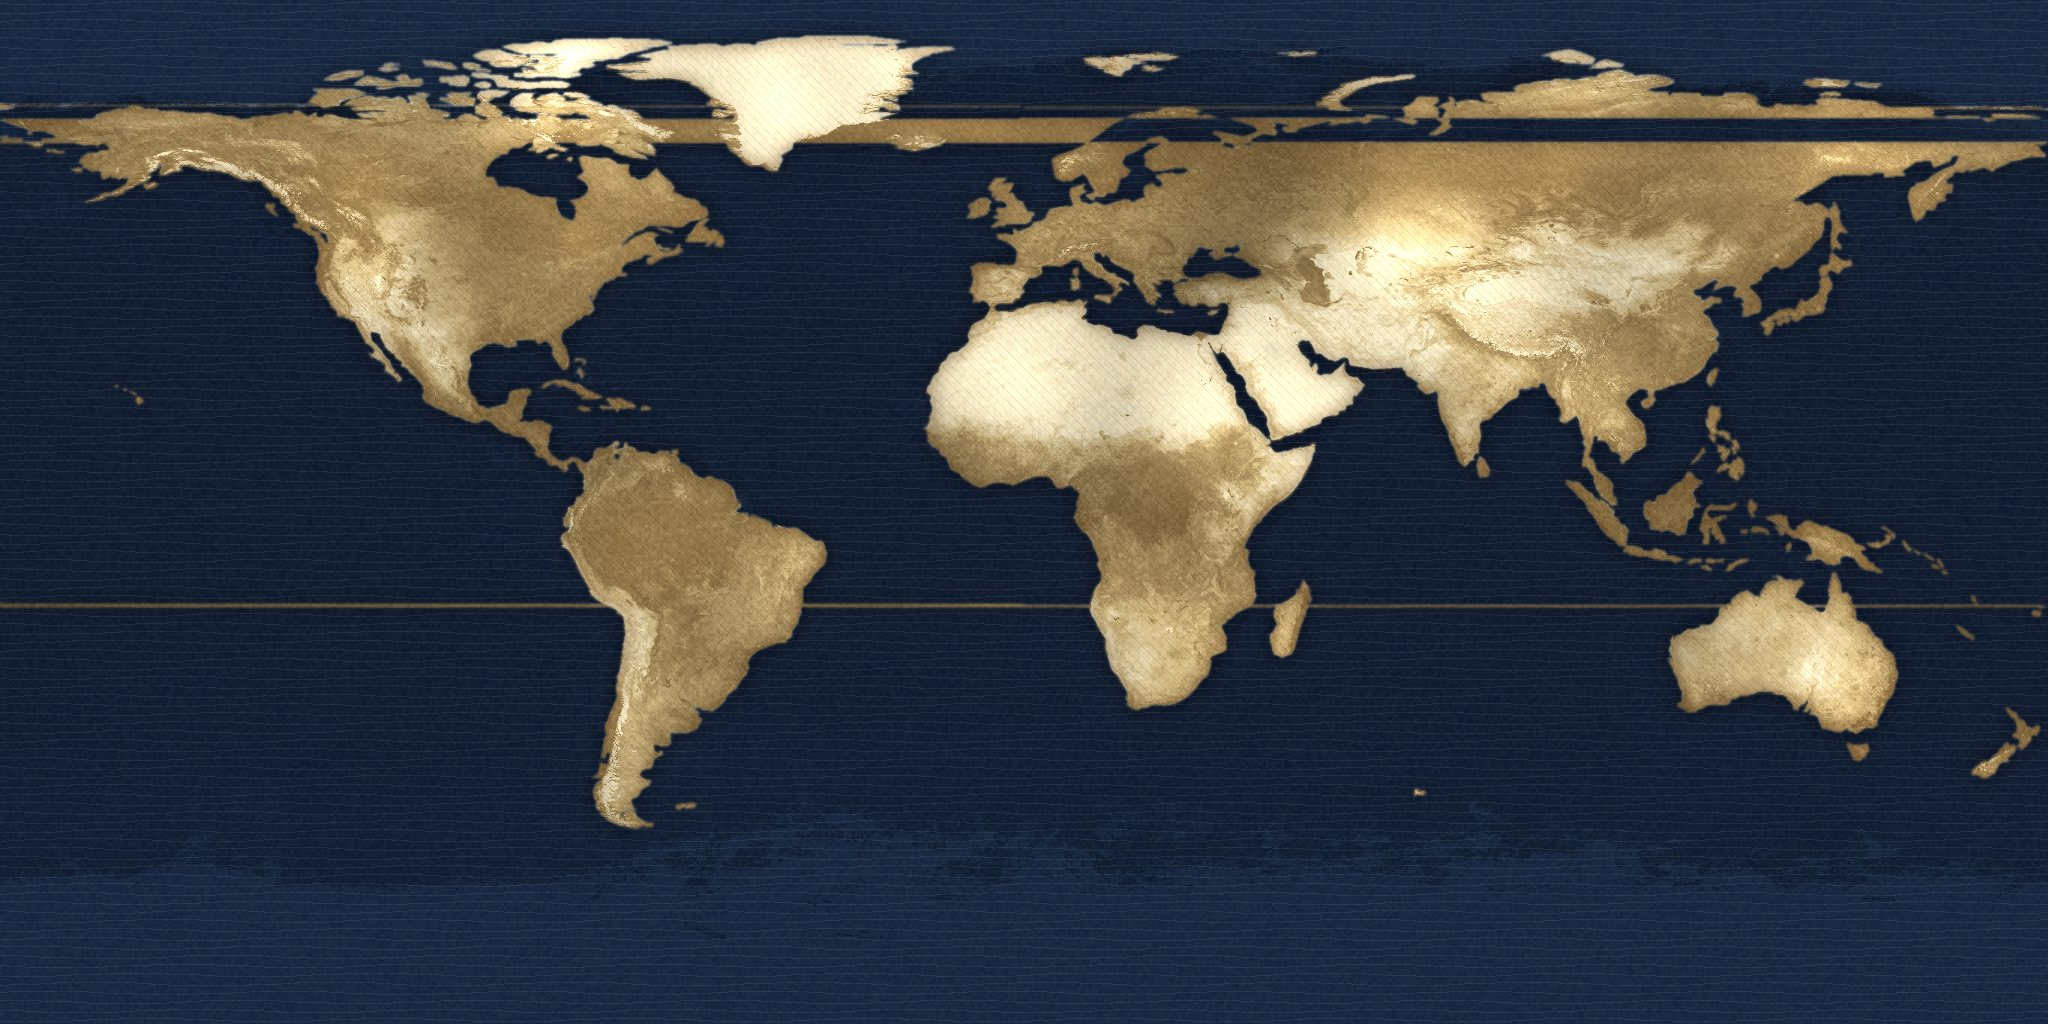
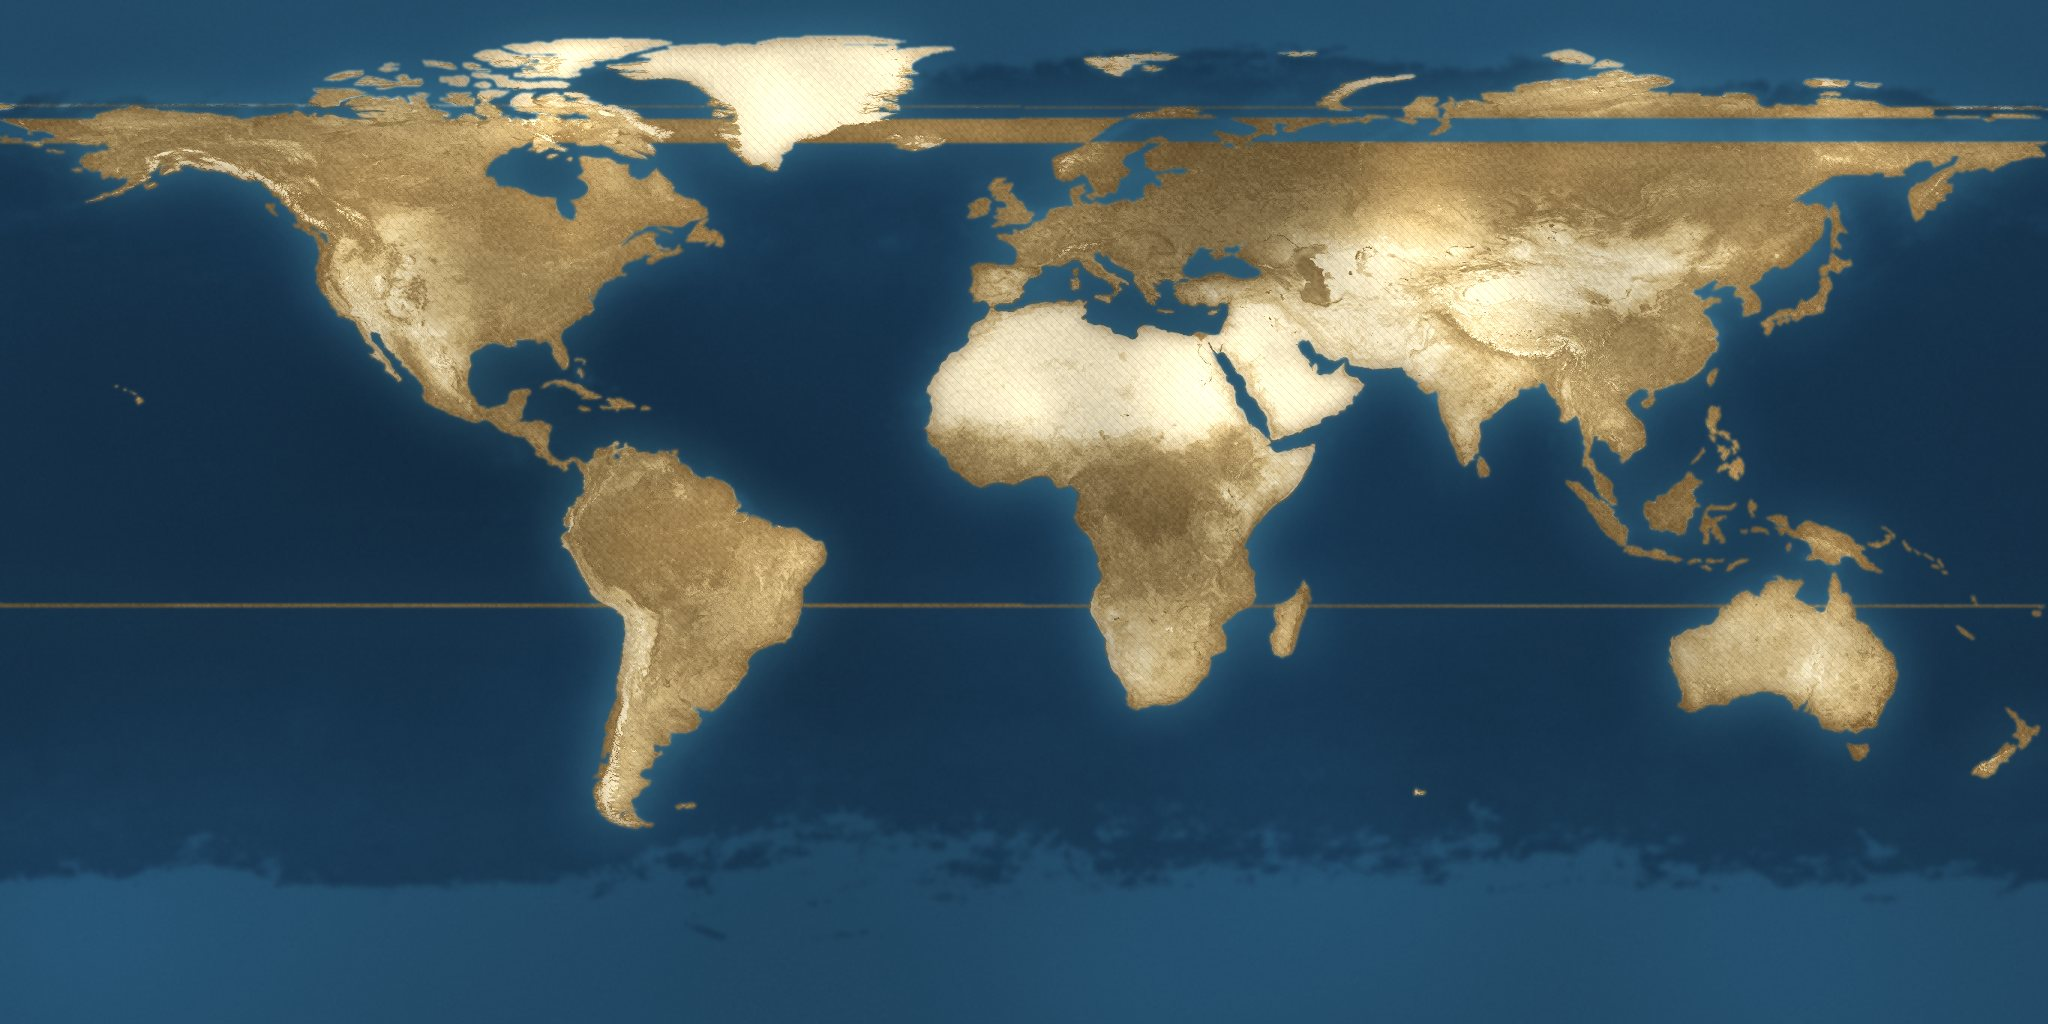
Globe water: painted, not hatched. Smooth varnished blue graded deep to shelf from real bathymetry, shores lighten toward every coast, faint varnish mottle, no grain on the sea

diff --git a/index.html b/index.html
@@ -622,7 +622,7 @@ const G=(()=>{const cv=$('#globe'),ctx=cv.getContext('2d');let W,H,R,R0,dpr=1,ya
     tc.strokeStyle='rgba(196,164,104,.45)';tc.lineWidth=2.4;tc.beginPath();tc.moveTo(0,TH/2);tc.lineTo(TW,TH/2);tc.stroke();TD=tc.getImageData(0,0,TW,TH).data}
   let TD=null;paint(null);
   /* the real relief, baked from the NASA Blue Marble into aged paper, replaces the procedural paper once it arrives */
-  (()=>{const gi=new Image();gi.onload=()=>{paint(gi);if(typeof buildRaster==='function'&&RS){renderRaster();}draw&&draw()};gi.src='/globe-tex.jpg?v=1'})();
+  (()=>{const gi=new Image();gi.onload=()=>{paint(gi);if(typeof buildRaster==='function'&&RS){renderRaster();}draw&&draw()};gi.src='/globe-tex.jpg?v=2'})();
   let ringTex=null,lastRaster=0,RS=0,rc=document.createElement('canvas'),rctx=rc.getContext('2d'),rimg=null,NX=null,NY=null,NZ=null,SH=null,SP=null,MASK=null;
   function buildRaster(){RS=Math.round(Math.min(W,640));rc.width=rc.height=RS;rimg=rctx.createImageData(RS,RS);const n=RS*RS;NX=new Float32Array(n);NY=new Float32Array(n);NZ=new Float32Array(n);SH=new Float32Array(n);SP=new Float32Array(n);MASK=new Uint8Array(n);const c=RS/2,r=RS/2-.5;const L=[-.45,.5,.74],ll=Math.hypot(...L);L[0]/=ll;L[1]/=ll;L[2]/=ll;const Hh=[L[0],L[1],L[2]+1],hl=Math.hypot(...Hh);Hh[0]/=hl;Hh[1]/=hl;Hh[2]/=hl;
     for(let py=0;py<RS;py++)for(let px=0;px<RS;px++){const i=py*RS+px;const nx=(px+.5-c)/r,ny=(c-py-.5)/r;const q=nx*nx+ny*ny;if(q>1){MASK[i]=0;continue}MASK[i]=1;const nz=Math.sqrt(1-q);NX[i]=nx;NY[i]=ny;NZ[i]=nz;const dl=Math.max(0,nx*L[0]+ny*L[1]+nz*L[2]);SH[i]=(.58+.42*dl)*(.5+.5*Math.pow(nz,.5));const dh=Math.max(0,nx*Hh[0]+ny*Hh[1]+nz*Hh[2]);SP[i]=Math.pow(dh,18)*22}}
